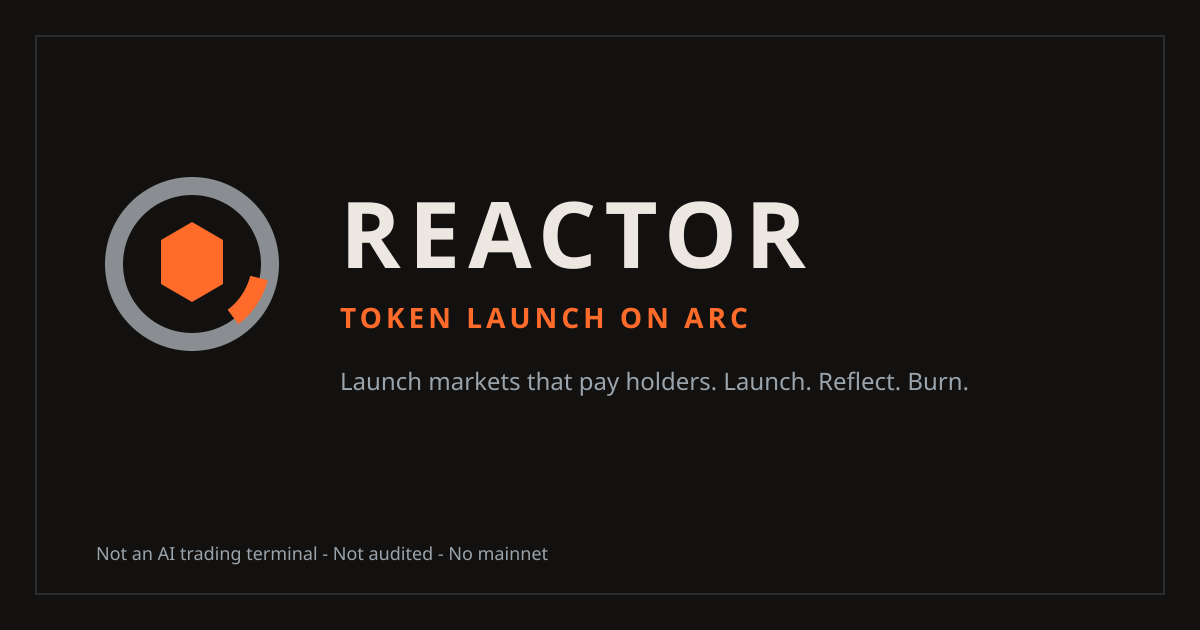
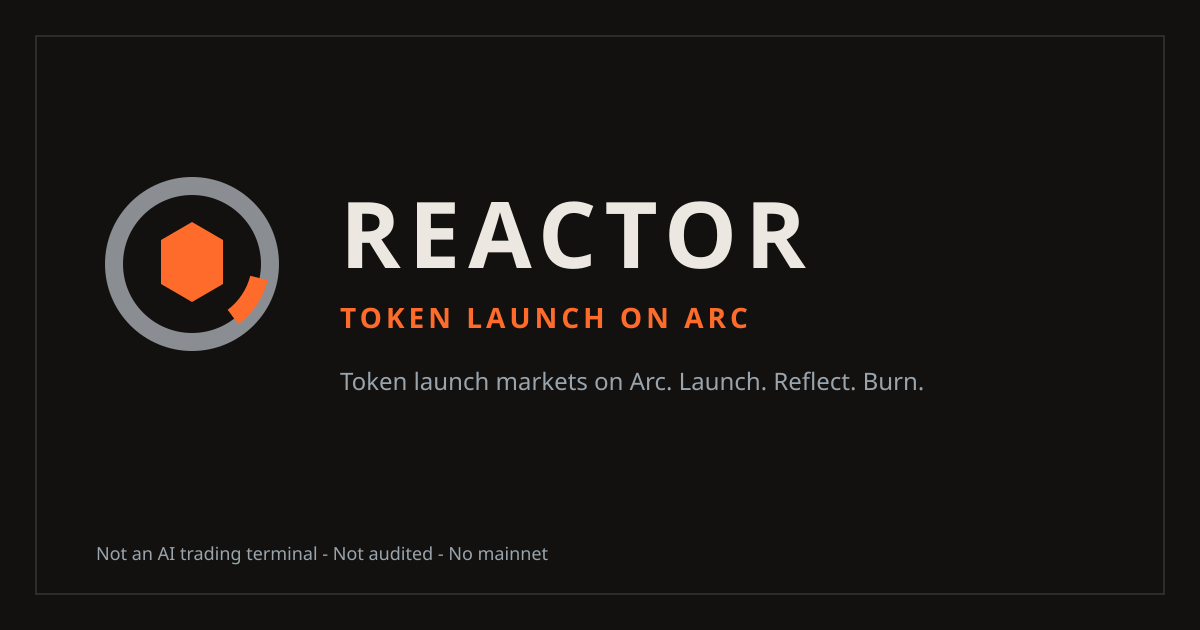
Correct brand metadata: Standard burns, Rewards pay holders.
Canonical description no longer says every launch pays holders.
Metadata, OG, manifest, and handbook distinguish Rewards vs Standard.
Economics and Factory V1 are unchanged.

Changed region(s): [[0.2775, 0.573, 0.8017, 0.6333]]

diff --git a/apps/web/src/lib/brand.test.ts b/apps/web/src/lib/brand.test.ts
@@ -44,6 +44,19 @@ assert(
   BRAND_VOICE.avoidInChromeAndOg.includes("AI"),
   "chrome/OG still forbid AI as a category claim",
 );
+assert(
+  !/launch markets that pay holders/i.test(BRAND_COPY.description),
+  "description must not imply every launch pays holders",
+);
+assert(
+  /Rewards pay holders/.test(BRAND_COPY.description) &&
+    /Standard burns/.test(BRAND_COPY.description),
+  "description distinguishes Rewards vs Standard",
+);
+assert(
+  !/pay holders/i.test(BRAND_COPY.ogDescription),
+  "OG stays mode-neutral and must not say pay holders",
+);
 
 const layout = readFileSync(fileURLToPath(new URL("../app/layout.tsx", import.meta.url)), "utf8");
 assert(layout.includes("BRAND_COPY.description"), "layout uses canonical description");

diff --git a/apps/web/src/lib/brand.ts b/apps/web/src/lib/brand.ts
@@ -50,7 +50,7 @@ export const BRAND_COPY = {
   category: "Token launch on Arc",
   tagline: "Launch. Reflect. Burn.",
   title: "REACTOR — Token launch on Arc",
-  description: `Launch markets that pay holders. Official REACTOR pools on Arc. ${BRAND_AI_DISAMBIGUATION}`,
+  description: `Launch official REACTOR pools on Arc. Rewards pay holders; Standard burns. ${BRAND_AI_DISAMBIGUATION}`,
   ogTitle: "REACTOR",
   ogDescription: "Token launch markets on Arc. Launch. Reflect. Burn.",
 } as const;

diff --git a/CHANGELOG.md b/CHANGELOG.md
@@ -65,7 +65,7 @@ Founder-locked **Industrial Forge** brand (Direction C, issue #55 — **stays op
 
 ### Added / Changed
 
-- Canonical REACTOR identity is Industrial Forge: slag / steel / heat tokens, vessel + hexagonal ember mark, production favicon / app icon / OG / wordmark assets. THE REACTOR and CORE stay the same family with distinct chrome. Product title/description say **token launch on Arc**. The only allowed “AI” string is first-use metadata `Not an AI trading terminal.`; chrome and OG stay AI-free. Handbook: [Brand](docs/brand.md). **Refs #55 #36 #15 #18.** #55 stays open. #36 is closed.
+- Canonical REACTOR identity is Industrial Forge: slag / steel / heat tokens, vessel + hexagonal ember mark, production favicon / app icon / OG / wordmark assets. THE REACTOR and CORE stay the same family with distinct chrome. Product title/description say **token launch on Arc**. Metadata distinguishes **Rewards pay holders; Standard burns** — it does not say every launch pays holders. The only allowed “AI” string is first-use metadata `Not an AI trading terminal.`; chrome and OG stay AI-free. Handbook: [Brand](docs/brand.md). **Refs #55 #36 #15 #18.** #55 stays open. #36 is closed.
 
 - Key pages prefer indexed HTTP: `/quote-assets` for the launch picker, `/markets?q=` for search, `/markets/:token` for a single market, `/page/token/:token` for market + candles + tape in one hop.
 - Independent RPC reads go through `readContractsBatched`: probe canonical Multicall3, require one successful `multicall`, otherwise `Promise.all`. Arc is not assumed to ship Multicall3.

diff --git a/docs/changelog.md b/docs/changelog.md
@@ -71,7 +71,7 @@ Founder-locked **Industrial Forge** brand (Direction C, issue #55 — **stays op
 
 ### Added / Changed
 
-- Canonical REACTOR identity is Industrial Forge: slag / steel / heat tokens, vessel + hexagonal ember mark, production favicon / app icon / OG / wordmark assets. THE REACTOR and CORE stay the same family with distinct chrome. Product title/description say **token launch on Arc**. The only allowed “AI” string is first-use metadata `Not an AI trading terminal.`; chrome and OG stay AI-free. Handbook: [Brand](docs/brand.md). **Refs #55 #36 #15 #18.** #55 stays open. #36 is closed.
+- Canonical REACTOR identity is Industrial Forge: slag / steel / heat tokens, vessel + hexagonal ember mark, production favicon / app icon / OG / wordmark assets. THE REACTOR and CORE stay the same family with distinct chrome. Product title/description say **token launch on Arc**. Metadata distinguishes **Rewards pay holders; Standard burns** — it does not say every launch pays holders. The only allowed “AI” string is first-use metadata `Not an AI trading terminal.`; chrome and OG stay AI-free. Handbook: [Brand](docs/brand.md). **Refs #55 #36 #15 #18.** #55 stays open. #36 is closed.
 
 - Key pages prefer indexed HTTP: `/quote-assets` for the launch picker, `/markets?q=` for search, `/markets/:token` for a single market, `/page/token/:token` for market + candles + tape in one hop.
 - Independent RPC reads go through `readContractsBatched`: probe canonical Multicall3, require one successful `multicall`, otherwise `Promise.all`. Arc is not assumed to ship Multicall3.

diff --git a/docs/brand.md b/docs/brand.md
@@ -46,11 +46,13 @@ UI copy must say **token launch on Arc** on first use.
 | Field | Value |
 | --- | --- |
 | `<title>` | `REACTOR — Token launch on Arc` |
-| Description | `Launch markets that pay holders. Official REACTOR pools on Arc. Not an AI trading terminal.` |
+| Description | `Launch official REACTOR pools on Arc. Rewards pay holders; Standard burns. Not an AI trading terminal.` |
 | OG title | `REACTOR` |
 | OG description | `Token launch markets on Arc. Launch. Reflect. Burn.` |
 
 **AI voice rule (one rule, no contradiction):** the word “AI” is allowed **only** as the first-use metadata sentence `Not an AI trading terminal.` (`BRAND_AI_DISAMBIGUATION` / `BRAND_COPY.description`, plus this collision table). Chrome, CTAs, titles, and OG/social previews (`BRAND_COPY.ogTitle` / `ogDescription`) must not use “AI”. Also do not use in chrome or social: “agents”, “perps”, “super-app”, “messaging layer”, “Reactor Terminal”, “Arc Reactor”, “audited”, “trustless oracle”, fake urgency.
+
+Do **not** say every launch “pays holders.” Standard burns the token-level 2%; Rewards distributes that 2% to holders. Metadata must stay mode-correct.
 
 `THE REACTOR` is the Top-10 flywheel (`/reactor`). `REACTOR` is the launchpad.
 

diff --git a/PROJECT.md b/PROJECT.md
@@ -4,7 +4,7 @@
 
 - **Token:** $CORE (TestCORE on testnet)
 - **Tagline:** Launch. Reflect. Burn.
-- **Secondary:** Launch markets that pay holders.
+- **Secondary:** Rewards pay holders; Standard burns.
 - **Display:** REACTOR / Built on Arc
 
 Launch a normal ERC-20 into an Official REACTOR Pool (Uniswap v4, 0% LP fee, REACTOR hook). Every official swap charges **3.5% of quote notional** in the quote asset: **2%** holders, **1%** Top-10 flywheel, **0.5%** CORE buy+burn.
@@ -17,7 +17,7 @@ A complete economic loop:
 
 1. Instant (bonding → v4) or Fair launch
 2. Trade on the curve, then the official hooked pool after graduation
-3. Holders claim quote rewards (no staking)
+3. Rewards holders claim quote (no staking); Standard 2% SelfBurns
 4. Designated Keeper CORE / Top-10 / SelfBurn maintenance
 5. UI that shows API ranks + onchain epoch events (not a trustless oracle)
 

diff --git a/docs/index.md b/docs/index.md
@@ -2,7 +2,7 @@
 
 > Protocol **0.3.4** · Factory **V1** (immutable) · Not audited · No public mainnet
 
-REACTOR is a token launchpad for **Arc**. Creators launch a market that pays holders in the **quote they pick**. Official pools are Uniswap v4 with a **0% LP fee**. The **3.5%** quote-side charge is hook custom accounting: **2% holders / 1% Top-10 / 0.5% CORE**.
+REACTOR is a token launchpad for **Arc**. Creators launch Official REACTOR pools: **Rewards** pay holders in the quote they pick; **Standard** burns that 2%. Official pools are Uniswap v4 with a **0% LP fee**. The **3.5%** quote-side charge is hook custom accounting: **2% holders or SelfBurn / 1% Top-10 / 0.5% CORE**.
 
 This software is **not audited**. There is **no public mainnet**. Local and test use only.
 

diff --git a/README.md b/README.md
@@ -1,7 +1,7 @@
 # REACTOR
 
 **Launch. Reflect. Burn.**  
-**Choose what your token earns.** Launch markets that pay holders in the quote you pick.
+**Choose what your token earns.** Rewards pay holders in the quote you pick; Standard burns the 2%.
 
 Token launchpad for **Arc** — not an AI trading terminal. Official REACTOR pools are Uniswap v4 markets with a **0% LP fee** and a **3.5% quote-side protocol charge** (2% holders / 1% Top-10 flywheel / 0.5% CORE buy+burn). Maintenance is a designated Keeper. The only security authority is an immutable Guardian. Built on Arc.
 
